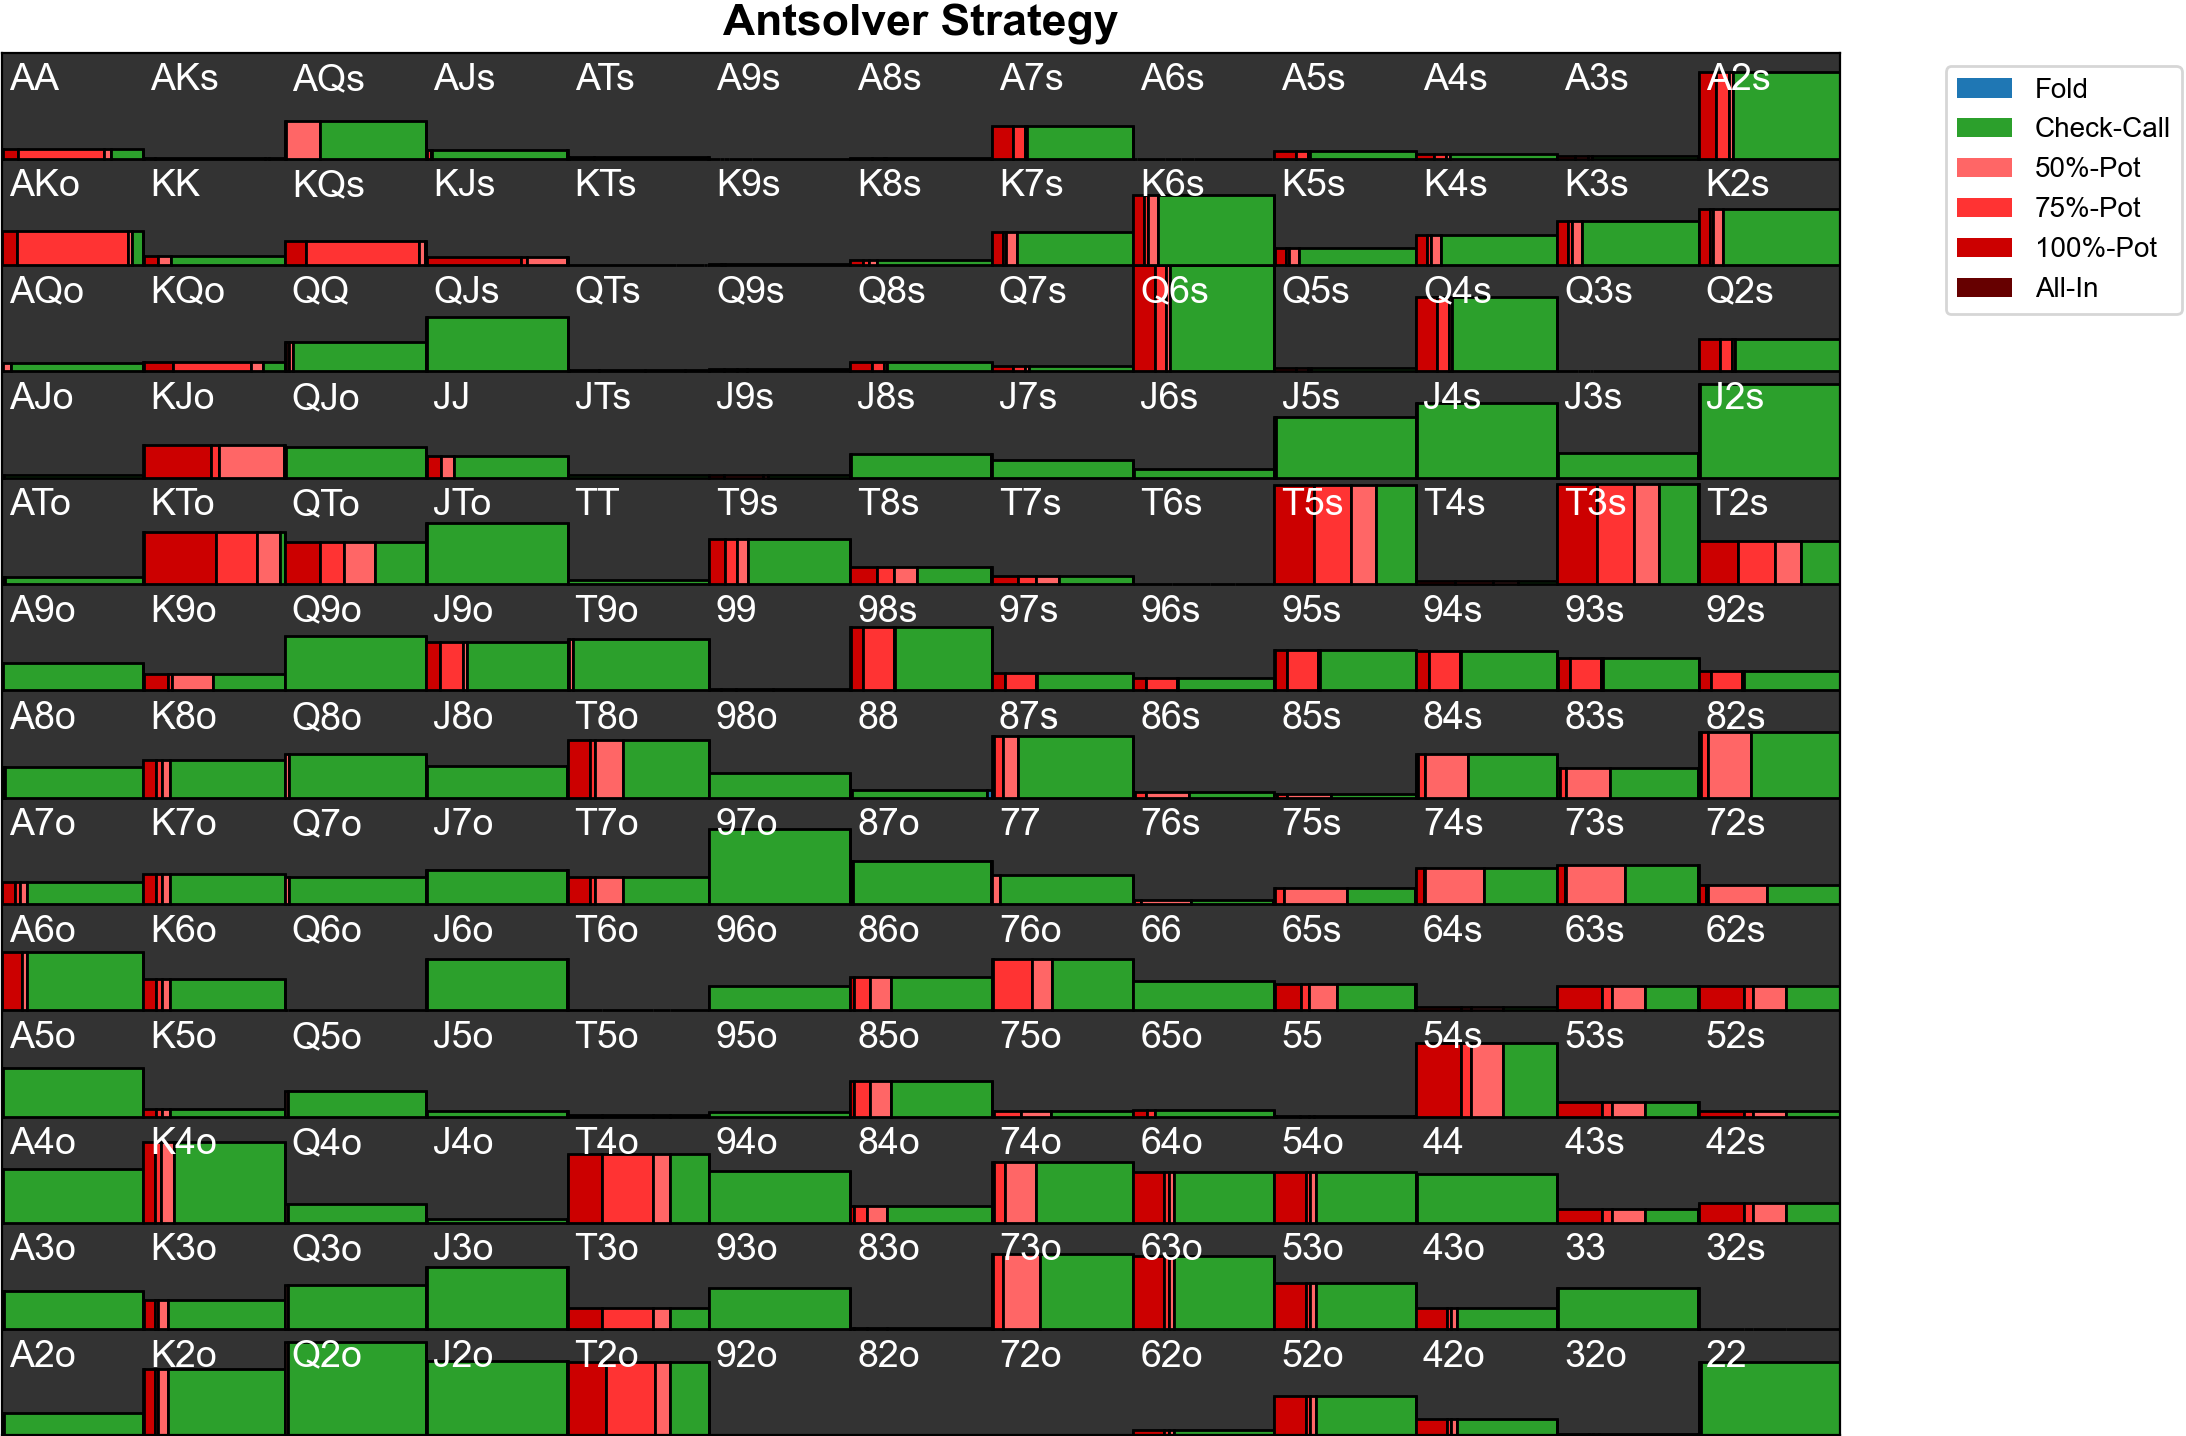
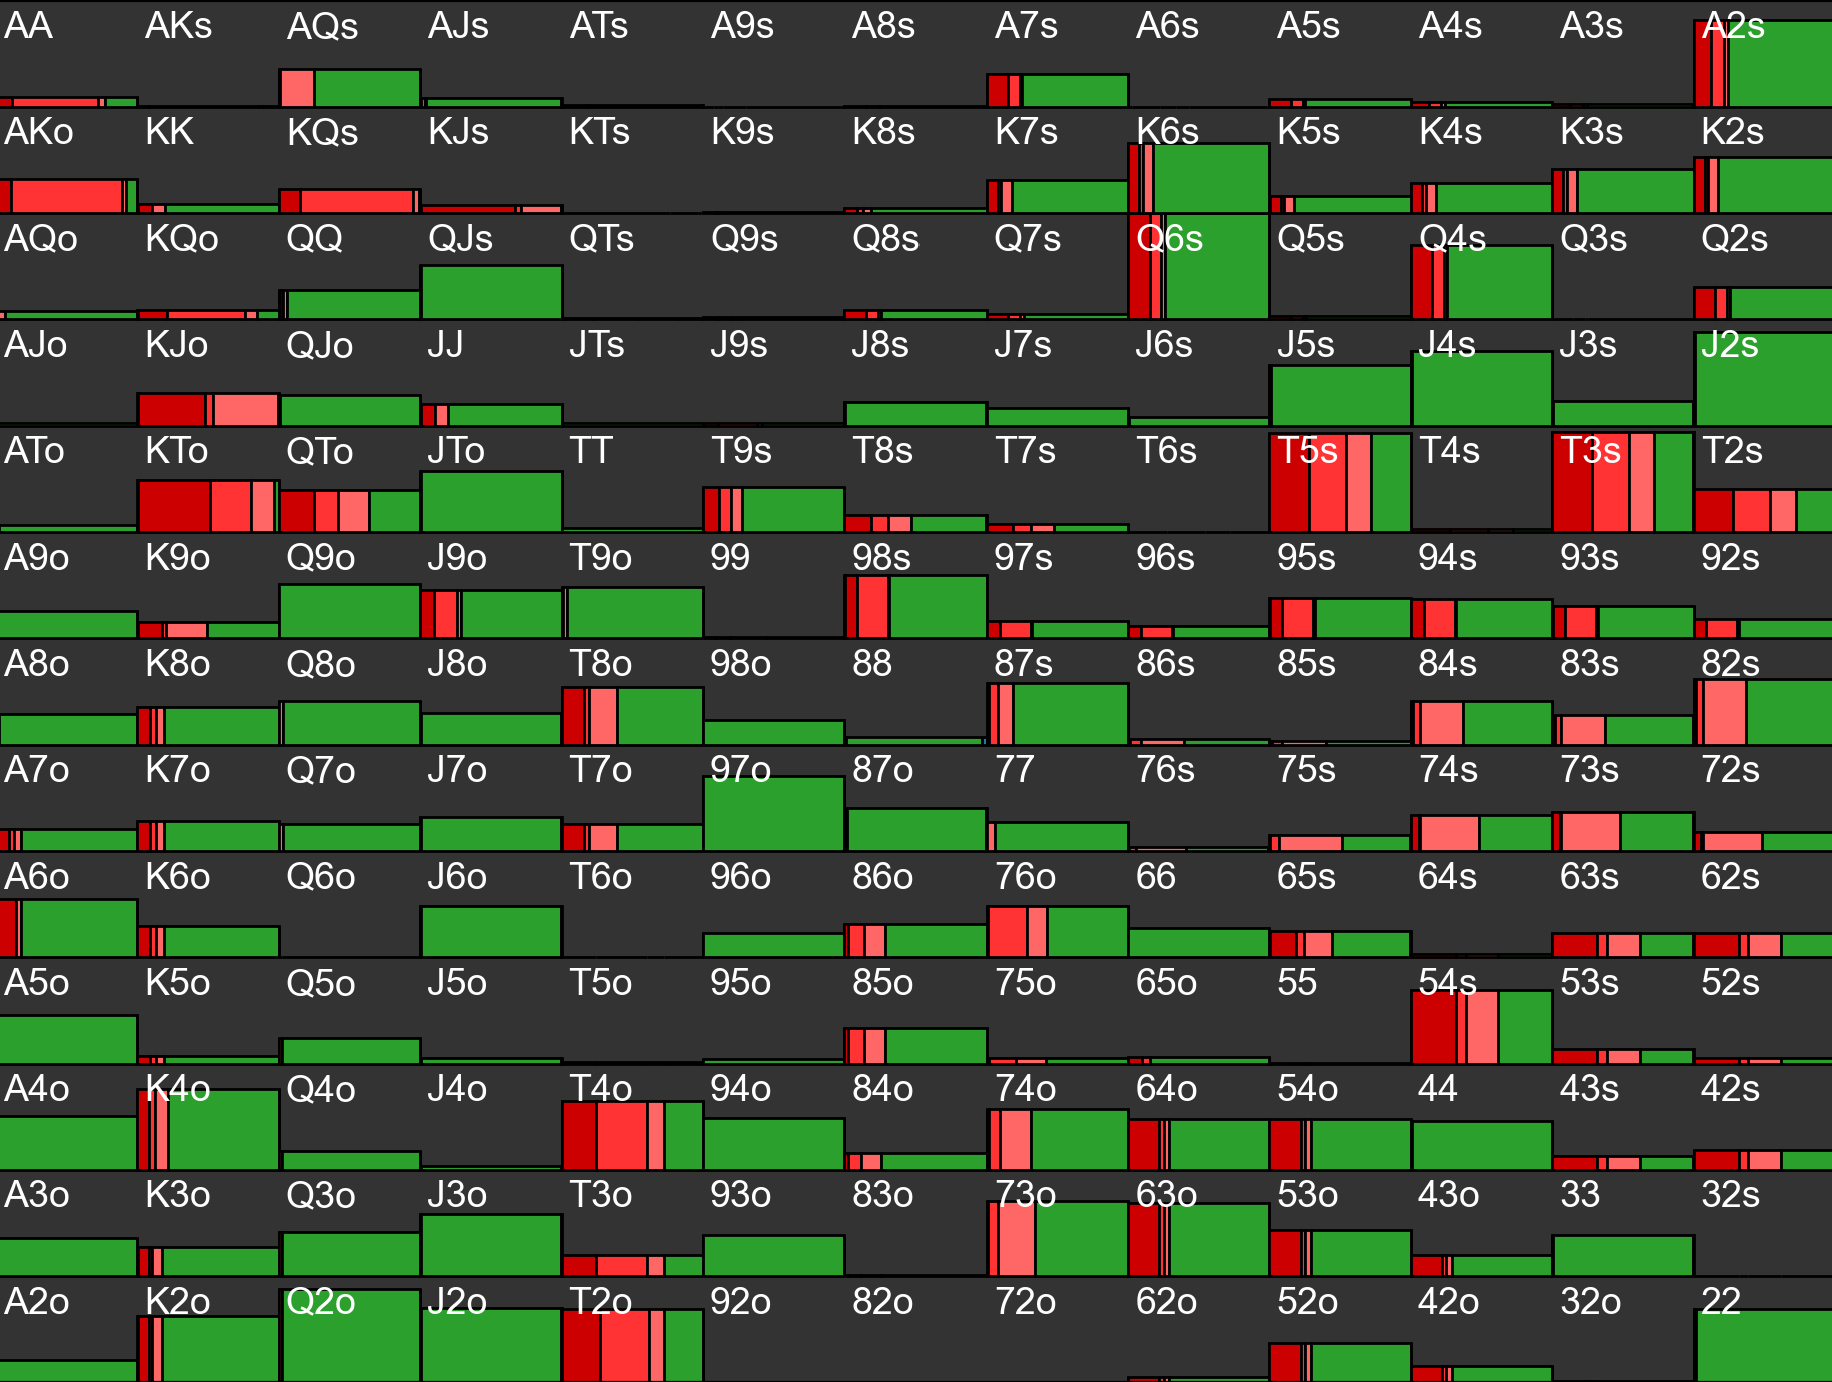
Edited README

diff --git a/README.md b/README.md
@@ -83,7 +83,7 @@ cd build
 ## Performance
 The full solver will play in the standardised version of HUNL for the Annual Computer Poker Competition - $20,000 stacks with $50/$100 blinds. In this first iteration of the solver, off-tree betting actions are not yet allowed. Within this simplified game, the bot plays at around an advanced amateur level. 
 
-Consider its policy as SB opening:
+Consider its policy as SB opening preflop:
 
 <p align="center">
   <img src="images/antsolver_preflop1.png" width="700"><br>
@@ -96,7 +96,12 @@ Compare this to the strategies of Supremus, a frontier research AI based on neur
 | <img src="images/supremus_preflop1.png" width="300"> | <img src="images/wizard_preflop1.png" width="500"> |
 | *Supremus' strategy (restricted to probabilities of not folding)* | *GTO Wizard's strategy* |
 
-...
+While Antsolver uses the blueprint as its strategy in the preflop, later subgames are resolved in real-time. Consider its policy as SB after limping preflop, and BB checking over a flop of K♠J♠9♣:
+
+| | |
+|:-:|:-:|
+| <img src="images/antsolver_flop1.png" width="400"> | <img src="images/wizard_flop1.png" width="400"> |
+| *Supremus' strategy (restricted to probabilities of not folding)* | *GTO Wizard's strategy* |
 
 ## Planned Upgrades
 Upgrades for the next iteration of the solver: